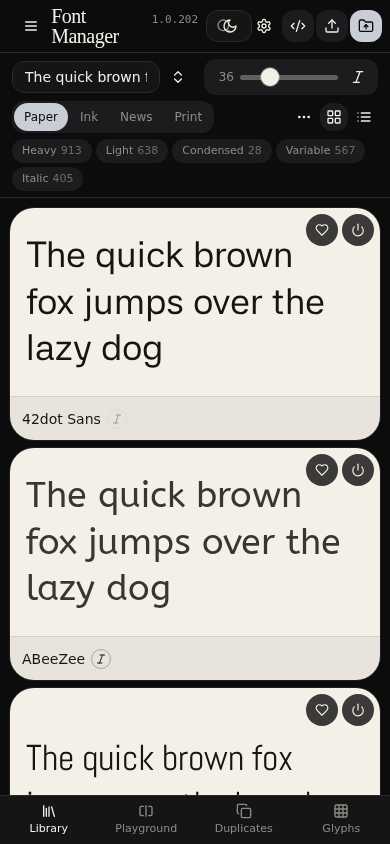
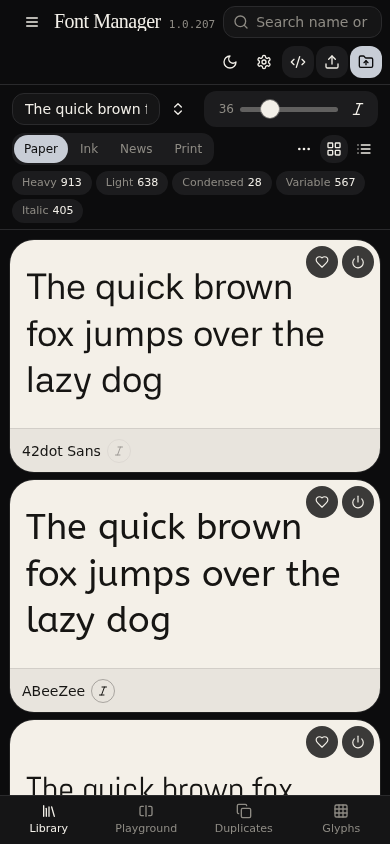
docs: hand off the app in plain language
Replace the README diary-first opening with what the app does, the locks,
the Windows font-cache distinction, and what not to rewrite. Keep the
letter-tip archive in the README so existing tests still find it, and
refresh the website screenshots.

Changed region(s): [[0.0, 0.0, 0.9846, 0.955], [0.4308, 0.0, 0.9846, 0.1848], [0.4615, 0.0, 0.5231, 0.0308]]

diff --git a/docs/LETTER-TIPS.md b/docs/LETTER-TIPS.md
@@ -1,323 +1,10 @@
-# Font Manager 1.0.207
+# Letter-tip history
 
-A Windows app that lets you try fonts in Word, Photoshop, or Figma **without installing them**. The fonts live in your Documents folder. While Font Manager is open, Windows is told “these are available.” When you quit, Windows is told to forget them. Nothing is copied into `C:\Windows\Fonts`.
+These notes are the diary from 1.0.155 through 1.0.206ag. They are not the manual.
 
-The website ([font-manager-eta.vercel.app](https://font-manager-eta.vercel.app)) is only a **look book**. It can show specimens. It cannot put a font into Word. The Windows app is the product.
+Live behavior is [README.md](../README.md). Where a note below mentions a system-wide Escape shortcut, `tauri-plugin-global-shortcut`, pointerdown cancel, hiding the library, or `data-fm-cancel-seq`, **1.0.207 replaced that**. Escape works only while this window is focused and you are not typing. Cancel is an in-app button. The library stays visible.
 
-Version stays **1.0.207**. Latest GitHub **release** is still **v1.0.206**. There is no signed installer and no new release until a real Windows run of this build says Add succeeded. Web catalog on `main` is commit `0d2da47` (the whole-catalog stall fix). Do not merge the old pull request [#77](https://github.com/eect13/font-manager/pull/77) (`tip/1.0.207` on top of `f18ff56`). It is stale.
-
-The letter-by-letter diary is at the bottom of this file and in [docs/LETTER-TIPS.md](docs/LETTER-TIPS.md). The review log is [REVIEW-STATUS.md](REVIEW-STATUS.md). Read this page first. Do not start by rewriting `activate.rs`.
-
-## Is this worth finishing?
-
-Yes. Stop rewriting it.
-
-The app already browses about 1,946 Google families and about 154 Fontsource-only families, keeps your own files, previews them, and activates them for the session. The bugs that remain are mostly **unproven on a Windows PC**, not a missing design.
-
-What burned the tokens was the process: dozens of letter-tips (1.0.206a through 1.0.206ag), each one a small reviewer note turned into another edit of the same activation file, plus sessions that re-read that file and proposed a new architecture. The architecture is already the right shape. Another queue rewrite will create the next cascade.
-
-**The finish line is one Windows test**, not more code. Install a build that contains `0d2da47`. Activate All. Pause, resume, cancel, restart, Activate All again, Repair. Open Word. A family is Live only if Windows accepted the font. Then, and only then, cut a release.
-
-## Hand this to someone else
-
-Give them this file, [REVIEW-STATUS.md](REVIEW-STATUS.md), and these rules:
-
-1. Do not change behavior and the progress numbers in the same patch.
-2. Do not mark a font Live unless `AddFontResourceExW` returned more than 0.
-3. Do not call a Settled font (Gidugu) Activated.
-4. Do not use `FR_PRIVATE`. Word would not see the font.
-5. Do not raise `GDIProcessHandleQuota`.
-6. Do not delete Font Cache files, and do not restart the Font Cache service on quit.
-7. Do not force-kill the app. Do not kill a path that contains `\Tip\`.
-8. Do not skip Add. Do not Add the Documents original. Add the copy under `%LOCALAPPDATA%\Font Manager\gdi-maps`.
-9. Do not treat Google and Fontsource as the same catalog.
-10. Do not pack the Windows installer from Linux. `deploy.bat` on Windows only.
-11. Do not publish a GitHub release or tag from a machine that has not watched the test above.
-12. Keep the progress count in **families** (about 1,946). A face count or a megabyte count is a different number. Change every screen together or do not change it.
-
-Their first task is the Windows test. Their second task, only after that passes, is one of the “later” items below. Not all of them.
-
-## What you can do
-
-| You want to… | What happens |
-| --- | --- |
-| Browse Google Fonts or Fontsource | Cards show a sample. About 2,100 families in the full library. |
-| Activate | The app downloads the real font file if it is not already in Documents, copies it to a private folder, and asks Windows to offer it to other programs. |
-| Deactivate | Other programs stop seeing it. The file stays. |
-| Delete | The family folder goes to the Recycle Bin, after Windows is told to let go. |
-| Repair | Re-download a family whose files are short or whose “done” marker is missing. Then try Activate. |
-| Upload | Drop TTF, OTF, WOFF, WOFF2, or TTC. They stay in Documents. |
-| System | A look at fonts already installed on the PC. This app does not uninstall those. |
-| Inspector | Weight, italic, variable sliders, OpenType switches, license. |
-| Playground | Compare faces side by side. |
-| Glyphs | The character map. Search by letter, hex, or name. |
-| Duplicates | Find files that are the same bytes. Hide the extras. |
-| Collections | Group names. Export or import the list. Pack a zip. No account. |
-
-Search can filter by weight, width, x-height, contrast, and variable axes when those numbers were read from the font. If the metrics were not read, that filter does not pretend to match.
-
-## Three words that must stay honest
-
-| Word | Means | Does not mean |
-| --- | --- | --- |
-| **Library** | The file is in the catalog or on disk. | Word can use it. |
-| **Settled** | We already know this Windows session will refuse it (hard list: Gidugu), or a soft font was tried and Add returned 0. | It is activated. |
-| **Live** | `AddFontResourceExW` returned a number greater than 0 in this run of the app. | The file exists, a download finished, or a `.complete` file is present. |
-
-A `.complete` file means “the faces we expected are on disk.” It is not proof that Word can see them. A partial download must not write that marker.
-
-## How a font becomes usable in Word
-
-In plain steps:
-
-1. You press Activate on a family, or Activate All.
-2. Two workers download families, one family at a time each. They do not download every file in the catalog at once.
-3. A small lookup (the CSS listing, a metadata file, the Fontsource API) is allowed **20 seconds**. If a server hangs, that family is skipped and the queue moves on. Repair can try it later.
-4. The font file itself is allowed **300 seconds**. A big CJK file is slow on purpose. Shortening this makes a slow success look like a failure.
-5. Google files are read into memory (up to 64 MB) so the internal name can be patched. Adobe otherwise shows “Nunito ExtraLight” as its own family. Fontsource files stream to disk.
-6. The app copies the file to `%LOCALAPPDATA%\Font Manager\gdi-maps` and registers **that copy**. Your Documents folder stays unlocked so you can delete or Repair it.
-7. Windows Add is one at a time. More parallel Adds are how you crash the font table. Two downloads plus one Add is the limit. It used to be three downloads; that could deadlock.
-8. The bar says which face it is on. While the job runs, the app sends only the **new** ready names so the window does not freeze on a 2,000-name list. A poll every 2.5 seconds, and the moment the job goes idle, still sends the **full** list.
-9. Pause waits between faces. It does not yank the plug on a download that is already in the middle of a file.
-10. Quit removes the registration. The gdi-maps copies stay, so the next launch can register them again without re-downloading.
-
-The website never does steps 6–10.
-
-## Windows font cache, without the jargon
-
-People say “font cache” for three different things. Mixing them up caused real bugs in this app.
-
-**1. The Font Cache service.** A Windows service (`FontCache`, and an older WPF one) that remembers font data so apps start faster. Its files sit under the LocalService profile (`FontCache*.dat`). Stopping the service and deleting those files is a repair you do by hand in `services.msc` when Windows itself is drawing garbage. This app tried restarting that service on quit (1.0.155). It needed admin, it could hang, and it left a zombie process. **1.0.158 took that off the quit path.** Do not put it back. A Rust command named `flush_font_cache` still exists. Do not call it from quit or from a button.
-
-**2. The GDI font table.** This is what Activate uses. `AddFontResourceExW` says “for this login session, this file is a font.” The return value is how many fonts were added. **0 means it failed.** There is no error text. `RemoveFontResourceExW` takes them back. After Add or Remove, the app should tell other windows (`WM_FONTCHANGE`) so Word rebuilds its menu. This registration dies at reboot even if you forget to Remove. It is not a permanent install.
-
-**3. The file lock.** After Add, Windows may keep the font file open. If you Added the file inside Documents, Explorer cannot delete the family and the downloader cannot finish writing it. That was the 1.0.156 lock. The fix is the gdi-maps copy: Add the copy, leave the original alone. Copies are allowed to remain after quit.
-
-**What this app never does.** Copying into `C:\Windows\Fonts` and writing the registry. That is a permanent install. It survives reboot and it is how a PC fills up with fonts you used once. Font Manager refuses to register a path under `\Windows\Fonts`.
-
-**Private fonts.** `FR_PRIVATE` would load the font only inside Font Manager. Word would not list it. This app passes the enumerable flag (the same idea as the older `AddFontResourceW`) so other programs can see the face. That is why this is harder than a preview-only tool.
-
-**The 10,000 limit.** Windows caps GDI objects (pens, fonts, device contexts) at about 10,000 **per process**. One Add is not one object. The app warns softly around 8,000. Raising the quota hides a leak. Do not.
-
-## Why FontBase and NexusFont look like they have no bugs
-
-They do have bugs. FontBase’s own forum has “it did not come back on next launch,” usually when the font folder is on a network drive. They are calmer because the product is smaller and older.
-
-| | FontBase | NexusFont | Font Manager |
-| --- | --- | --- | --- |
-| Job | Temporary activate while the app is open. Next launch turns the same set back on. | Point at folders. Preview. Optional temporary load, or a real install. | Same temporary idea, plus download the whole Google catalog and keep two providers honest. |
-| How Word sees it | Their Windows build is closed source. The behavior matches session activation, not a copy into `C:\Windows\Fonts`. | Temporary load is often `AddFontResource`. A private sandbox uses `AddFontMemResourceEx`, which other apps may not see. | `AddFontResourceExW` on a gdi-maps copy, enumerable, so Word can see it. Documented and tested. |
-| Catalog | Google Fonts as a provider, on their servers, one family when you ask. | No 2,000-family downloader. | This app downloads, name-patches, and resumes ~2,000 families on your PC. That is where the stalls live. |
-| Age | Years of one design. | A small native tool with a stable feature list. | Rebuilt in public, tip by tip, for one year. |
-
-They did not “accomplish no bugs.” They never took on a full offline Google mirror, a name-table patch for Adobe, a second CDN, and a promise that the badge is a lie unless Add returns more than 0. Copying their UI will not remove those promises. Narrowing this app down to “watch a folder and Add the file” would. That would also throw away the catalog, which is the point of this project.
-
-## Why Cancel does not stop a download instantly
-
-Rust’s usual cancel token (`tokio_util::sync::CancellationToken`) is a shared flag. Tasks notice it only when they **reach an await** or when they check the flag. Dropping an async task cancels it at the next await, not in the middle of a blocking read.
-
-This downloader uses the **blocking** HTTP client on worker threads. A token checked inside the thread does nothing until the current read returns. The body read is wrapped in the 300 second budget, so a stuck file can sit there until that budget ends. Pause and Cancel are checked **between faces** (`catalog_download_allowed`). That is the correct place. It will not abort a socket that is already reading.
-
-Switching the whole downloader to async so a token can drop the request is a rewrite. Do it only after the Windows test, and only if mid-file cancel is the pain you still feel. Do not add a token and also shorten the 300 second budget.
-
-## Where the code lives
-
-| Path | What it is |
-| --- | --- |
-| `src/routes/` | Library `/`, Playground, Glyphs, Duplicates. The shell keeps panes mounted so a tab switch does not reload 2,100 cards. |
-| `src/components/font-studio/` | The screen: grid, inspector, download bar, settings. |
-| `src/lib/fonts/store.ts` | The memory of the library: what is Live, Settled, selected. |
-| `src/lib/fonts/os-activate.ts` | Talks to the Windows side. Merges progress. Decides Live. |
-| `src/lib/fonts/ready-batch.ts` | Merges “new names” vs “full list.” This guess is the fragile bit. |
-| `src/lib/fonts/google-catalog.json` | Shipped Google list. |
-| `src/lib/fonts/fontsource-other.json` | Families that are Fontsource-only. |
-| `src-tauri/src/activate.rs` | Download, copy, Add, Remove, Repair, Documents walk. Large on purpose. Do not split it in a drive-by. |
-| `src-tauri/src/parse.rs` | Read name, metrics, cmap, system fonts. |
-| `src-tauri/src/namepatch.rs` | Rewrite the name table so Adobe shows one family. |
-| `src-tauri/windows/hooks.nsh` | Installer asks the window to close. No force kill. |
-| `scripts/*.test.mjs` | The honesty locks. Run `npm test` before you push. |
-| `deploy.bat` | The only way to build the Windows installer. |
-
-UI stack: React 19, Vite, TanStack Router, Zustand, Tailwind. Desktop: Tauri 2, Rust. Preview in the window is still Chromium (`FontFace` and Google CSS). Activation is not CSS.
-
-## API (what the window can ask Rust to do)
-
-The web build does not have these. They exist only in the desktop window.
-
-**Session**
-
-| Command | Plain meaning |
-| --- | --- |
-| `set_session_families` / `session_families` | Remember which families should come back next launch. |
-| `session_boot_state` | What was actually registered at startup. |
-| `set_desktop_prefs` | Close-to-tray and start-with-Windows. Both default off. X means quit. |
-
-**Library files**
-
-| Command | Plain meaning |
-| --- | --- |
-| `activation_folder` / `open_activation_folder` | The Documents folder. |
-| `save_library_file` / `install_font_file` | Write an uploaded font into that folder. |
-| `remove_library_file` / `uninstall_font_family` | Remove a file or a family. |
-| `scan_disk_families` | Read what is already on disk. |
-| `prune_unknown_folders` | Move unknown folders to the Recycle Bin. Never on a silent boot. |
-
-**Activate**
-
-| Command | Plain meaning |
-| --- | --- |
-| `register_font_path` | Add one file. Refuses `C:\Windows\Fonts`. |
-| `register_existing_on_disk` / `activate_families_on_disk` | Register families that are already downloaded. |
-| `list_activated_families` / `font_family_installed` | What this process has Added. |
-| `unload_font_family` / `unload_font_families` | Remove. The count returned is how many were actually unloaded, not “you clicked.” |
-| `flush_font_cache` | Legacy. Do not call on quit. |
-
-**Catalog download**
-
-| Command | Plain meaning |
-| --- | --- |
-| `plan_google_activation` | Decide which files a family still needs. |
-| `start_google_downloads` | Begin the queue. |
-| `pause_google_downloads` / `resume_google_downloads` | Hold between faces, then continue. Does not restart at 0. |
-| `cancel_google_downloads` | Stop after the current face. |
-| `google_download_progress` | The full progress snapshot, including every ready name. |
-| `drop_google_download_families` / `skip_google_failures` | Take families off the queue. Must not wipe unrelated pending work. |
-| `retry_google_downloads` / `repair_incomplete_families` | Try again. Repair is for short or unmarked folders. |
-| `resolve_family_fetch_intent` | Google or Fontsource. Never guess Google after a Fontsource card. |
-| `try_fontsource_gdi_offer` | Optional second source after a soft refuse. Live only if Add > 0. |
-| `clear_session_gdi_refused_family` | Allow one retry in this run. |
-| `read_family_font` | Bytes for the inspector when the file is local. |
-
-**Documents refresh**
-
-| Command | Plain meaning |
-| --- | --- |
-| `sync_documents_vf_policy` | Walk Documents. If a variable font is intact and already Added, drop the redundant statics. |
-| `cancel_documents_refresh` | Its own cancel flag. Not the download cancel. |
-
-**Read a font**
-
-| Command | Plain meaning |
-| --- | --- |
-| `parse_font_layout` / `parse_family_layout` | Axes, names, metrics. |
-| `parse_font_cmap` / `parse_family_cmap` | Which characters exist. |
-| `index_font_paths` | Index a watched folder. |
-| `hash_bytes` / `hash_font_path` / `diff_font_bytes` | Duplicates. |
-| `list_system_fonts` / `open_system_fonts_folder` | What Windows already installed. View only. |
-
-Progress also arrives as a `font-download` event. While the job is running that event’s name list may be only the new tail. The poll is the full list. The UI merges them in `absorbReadyNames`. A later cleanup is to send an explicit “this is a tail” or “this is the full list” instead of guessing. Do not do that in the same week as the Windows test.
-
-## Open bugs (do not invent fixes for the ones that are unproven)
-
-| # | What | How to know it is fixed |
-| --- | --- | --- |
-| 1 | The stall fix (20s lookup, 300s file, per-face label, short progress events) is on `main` and on the website. The Windows app already on the PC does not update from the website. | Install a build of `0d2da47` or later and watch a full catalog run. |
-| 2 | Boot migration, delete one family, and TTC activation are fixed in source and tests. Not watched on a real library. | Do those three on the PC. Files must not disappear. |
-| 3 | Installer “please close” is source-only. It must not force-kill, and it must not touch `\Tip\`. | Run the installer once against a normal window, and once with a Tip build open. |
-| 4 | Cancel during a big file still waits for that file (up to 300s). | Expected until a later cancel design. The label should name the face. |
-| 5 | The UI guesses whether a name list is a tail or the full list. A shorter restart that starts with the same family can keep stale names until the next full poll. | After the Windows test, add an explicit kind. Do not rip out the full-list poll. |
-| 6 | Kappa Text missing from a 20-file upload was not reproduced. | Leave it unless you can show the miss. |
-| 7 | No code signing. SmartScreen will warn. | A real certificate, which this repo does not invent. |
-| 8 | PR #77 is still open and would replay an old branch onto a main that has moved. | Close it. Do not merge it. |
-
-## Already fixed — do not do these again
-
-Dark “Clear uploads” contrast (`#a84a3b` on `#f2efe8`). Latin samples for Poppins, Rubik, and Noto Sans when the font actually has Latin. First paint no longer reads `sessionStorage` (that was React hydration error #418). The migration marker is written only when nothing was kept back and nothing errored. Non-ASCII family names do not collapse to “sans.” `Library` and `u-` folders are not migrated. CI does not persist checkout credentials. The website header shows `1.0.207` and the commit when the host provides one.
-
-## Optimizations (and the trap in each)
-
-| Idea | Do it? | If you do it carelessly |
-| --- | --- | --- |
-| More than 2 download workers | No | Deadlock. Workers and stream slots are matched at 2. |
-| Shorter than 300s on the font file | No | A large font becomes a false failure, then Repair loops. |
-| 20s on the small lookup | Already on | A slow but alive metadata server marks the family incomplete. Repair is the recovery. Do not also cut the file timeout. |
-| Skip static files before the variable font has Added | No | If the variable Add fails you have nothing to fall back to. |
-| Send only new names, forever | No | The idle event and the poll must still send the full list. |
-| Byte counter inside the download | Later | Google files are buffered so the name can be patched before the file is published. Printing bytes must not rename the file early, and must not change “428 / 1,946.” |
-| One Rust job object for download, Add, and Repair | Later, as one design | Six small patches to the same file is how 1.0.206a–ag happened. |
-
-## Improvements that are allowed later
-
-After the Windows test, in this order:
-
-1. Say in the event whether the name list is a tail or the full snapshot.
-2. Show megabytes for the current file, throttled to about twice a second, without a second “done” count.
-3. Only then consider a per-file job list, a resume manifest, and mid-file cancel. A resume marker must not trust a half-written file or a `.complete` that was written too early.
-
-Not on the list: a third provider, accounts, or a new activation API.
-
-## Conflicts (change this, and that breaks)
-
-| If you change… | You also break… |
-| --- | --- |
-| Family count into a face count | Every “1,946” label, the confirm dialog, and the percent. |
-| Live to mean “file exists” | The Settled badge, the toast, and the Activated filter. |
-| Google and Fontsource into one fetch | Fontsource cards start hitting Google and trip the circuit breaker. |
-| Add on the Documents path | Delete and Repair fail because Windows holds the file. |
-| Writing `.u-folders-v1` when a conflict was kept | The next boot thinks the move finished and a file is gone. |
-| `taskkill` or killing `\Tip\` | A reviewer’s running build dies, and the installer test becomes a lie. |
-| The first-paint theme or tab list | React #418 comes back on the website. |
-| `done/total` to include skipped | The bar shows a number bigger than the total (this already happened once). |
-
-## Deploy
-
-| Where | How | What updates |
-| --- | --- | --- |
-| Website | Merge to `main`. Vercel builds it. | The look book and the web half of the progress UI. Not the Windows timeouts. |
-| Windows installer | On the PC: `deploy.bat`. Output under `Desktop\Vibe Apps\Font Manager\Installers\`. | The real app. Node 22 and the Visual C++ build tools once. First Rust compile is slow. |
-| GitHub release | Do not, until the Windows test passes. | A release is a promise. `v1.0.206` is the last promise. |
-
-`desktop-setup.bat` only opens a dev window. It does not build a setup. `fix-install.bat` is for a setup that will not uninstall. This tree cannot produce the installer.
-
-## Screenshots
-
-The Windows pictures are from the installed app, so the letters are real Windows text. The website pictures are the current catalog (`1.0.207`).
-
-| Library (Windows) | Inspector |
-| --- | --- |
-| ![Library](screenshots/library.png) | ![Inspector](screenshots/inspector-200.png) |
-
-| System fonts | Variable slider |
-| --- | --- |
-| ![System](screenshots/system.png) | ![Axes](screenshots/variable-slider.png) |
-
-| Playground (Windows) | Variable facet |
-| --- | --- |
-| ![Playground](screenshots/playground.png) | ![Variable](screenshots/variable-chip.png) |
-
-**Website** — CSS only, no Word:
-
-| Catalog | Glyphs |
-| --- | --- |
-| ![Catalog](screenshots/catalog-web.png) | ![Glyphs](screenshots/glyphs-web.png) |
-
-| Playground | Duplicates |
-| --- | --- |
-| ![Playground web](screenshots/playground-web.png) | ![Duplicates](screenshots/duplicates-web.png) |
-
-| Phone |
-| --- |
-| ![Catalog on a phone](screenshots/catalog-web-mobile.png) |
-
-## Install on Windows
-
-1. Install [Node.js 22 LTS](https://nodejs.org).
-2. Unzip or clone so `deploy.bat` sits next to `package.json`. A folder named `font-manager-main (1)` is fine.
-3. Double-click `deploy.bat` and leave it open: pack the UI, compile Rust, write the installer.
-4. Run the setup from `Desktop\Vibe Apps\Font Manager\Installers\`.
-5. If an old setup fights you, run `fix-install.bat`. Unblock the file in Properties if Windows marks it as downloaded.
-
-MSI needs WiX v3. The NSIS setup does not. WebView2 is included if the PC does not have it.
-
-## License
-
-[LICENSE](LICENSE).
-
----
-
-## Letter-tip archive
-
-The notes below are history. Tests still search this file for them, so they stay here. Where they mention a system-wide Escape shortcut, hiding the library, or `data-fm-cancel-seq`, **1.0.207 replaced that**. A copy with the same warning is [docs/LETTER-TIPS.md](docs/LETTER-TIPS.md).
+Do not re-implement a tip from this file without checking the README locks first.
 
 ## Letter-tip history
 

diff --git a/REVIEW-STATUS.md b/REVIEW-STATUS.md
@@ -1,5 +1,7 @@
 # Font Manager: REVIEW-STATUS
 
+Read [README.md](README.md) first. That file is the map: what the app does, the locks, the open bugs, and how to change one thing without breaking the next. This file is the review log. Section 3 item 1 (dark "Clear uploads" contrast) was fixed in the evening pass (`#a84a3b`). Do not "fix" it again. Pull request #77 (`tip/1.0.207`, based on `f18ff56`) is stale. Do not merge it onto current `main`.
+
 Whole-catalog download: CSS, METADATA.pb and Fontsource API lookups use a 20s probe timeout instead of the 300s TTF body timeout, so one hung CDN cannot stall the queue. The bar label moves per face. Running progress events send only new ready names; the poll (2.5s) and the idle event still send the full list. Large TTF bodies still allow 300s. Not Windows-proven.
 
 As of 2026-09-30 16:40 PHT (UTC+8), plus the evening pass below. This is the single current-state handoff file. Sources, by report name: 36-FIX-REPORT, 37-CRITIC-GOLIVE, 38-GOLIVE-REPORT, the team MASTERLIST section 9, and live GitHub and Vercel reads made at the time above. If something could not be verified it says **unconfirmed**.
